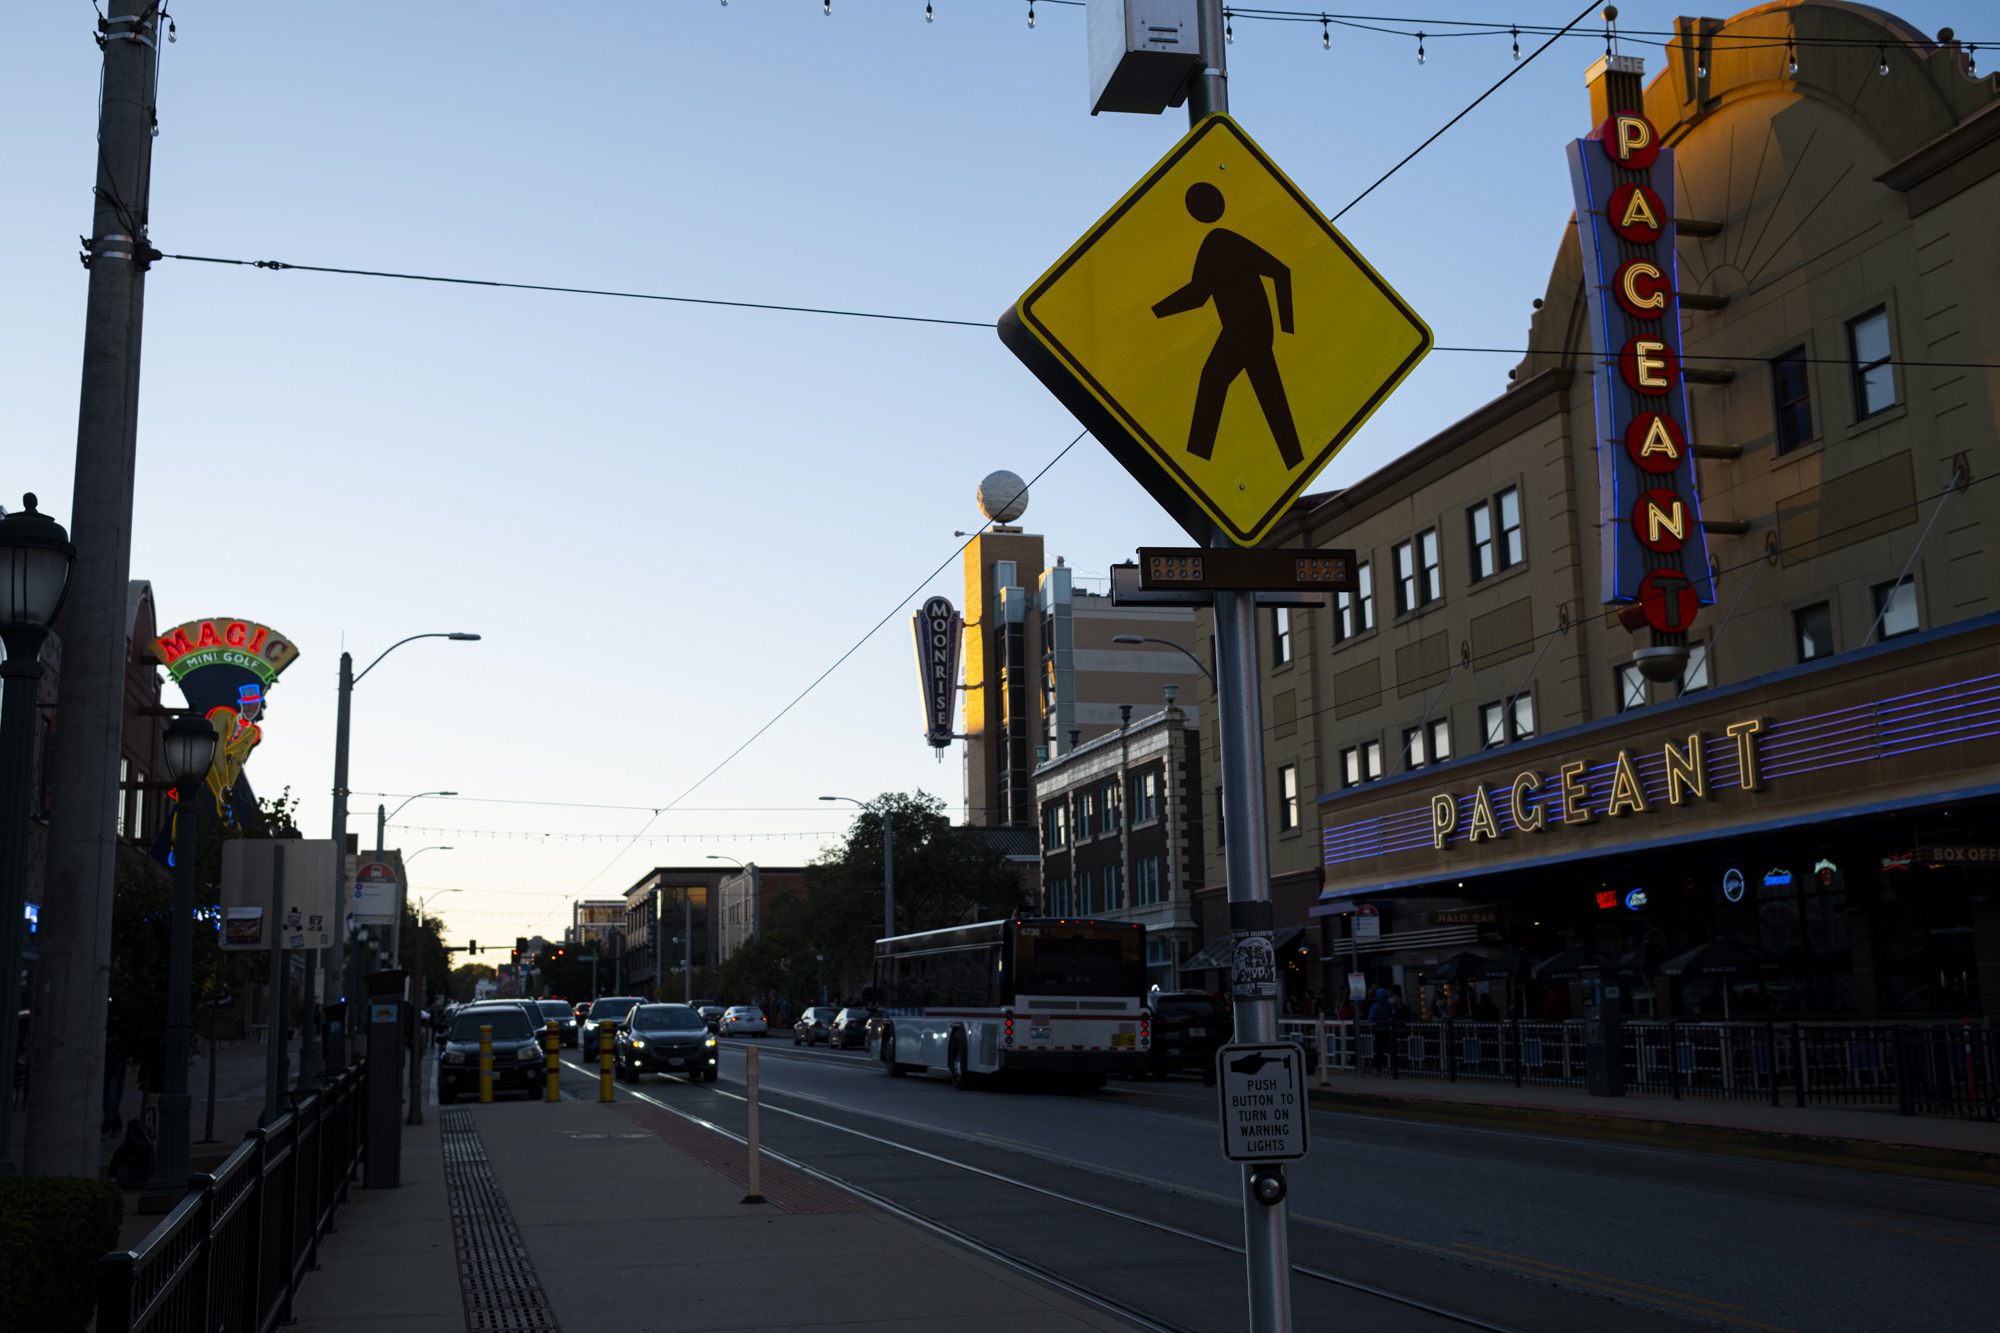
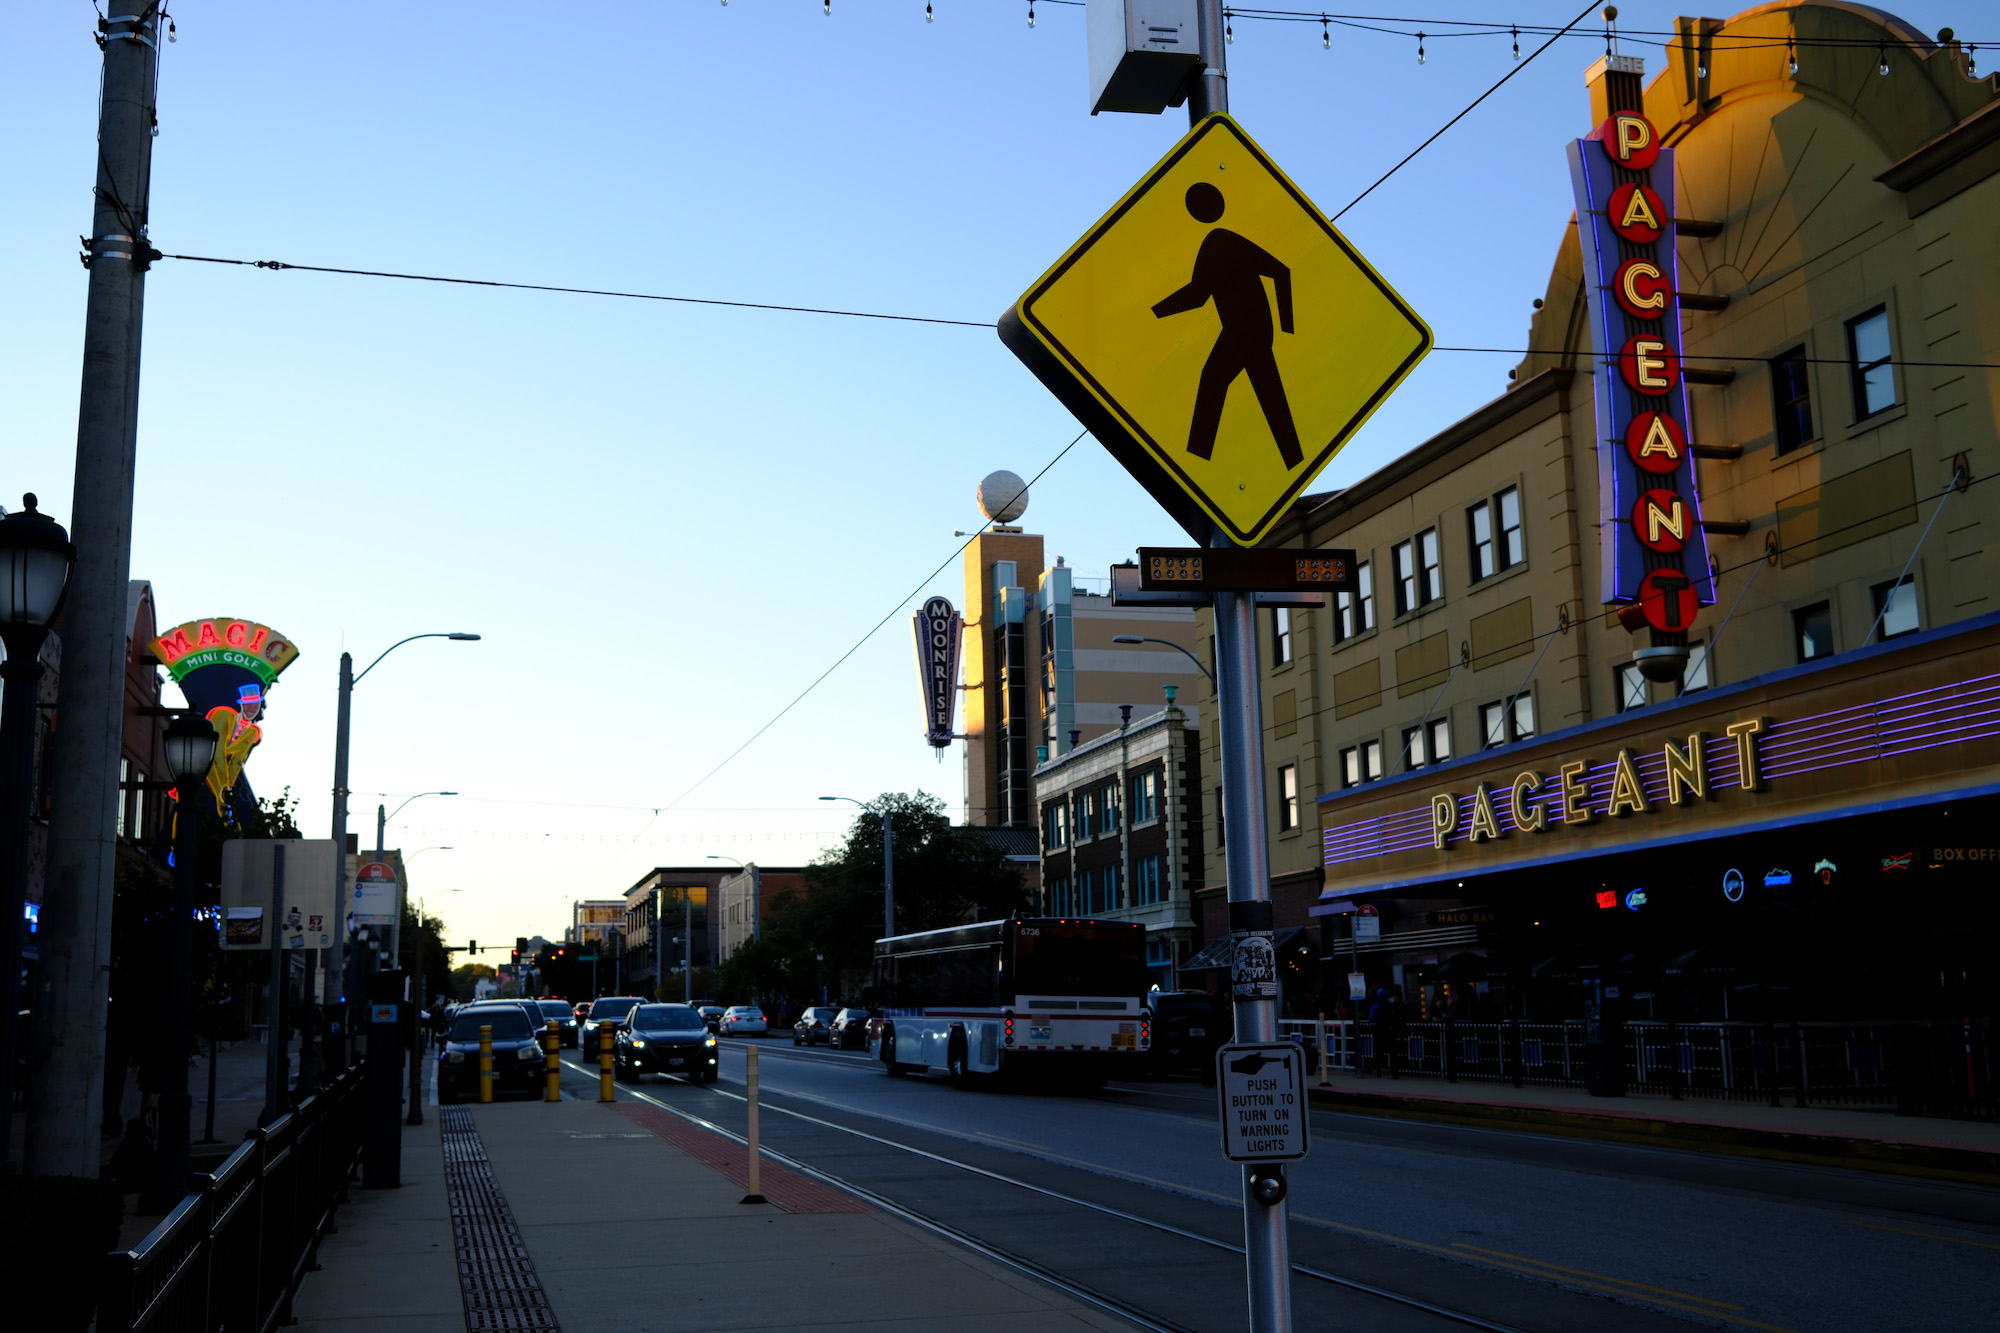
add more pics

diff --git a/src/styles/global.css b/src/styles/global.css
@@ -101,6 +101,7 @@
   --river-height: 32px;
   --pane-header-height: 45px;
   --aside-width: 290px;
+  --list-pane-width: 480px;
   --detail-gap: 2.5rem;
   --measure-article: calc(var(--measure-reading) + var(--detail-gap) + var(--aside-width));
   --measure-prose: 70ch;
@@ -944,11 +945,18 @@ body:has(.map-split) main > .wrap,
 
 @media screen and (min-width: 1000px) {
   .map-split .results {
-    grid-template-columns: 480px 1fr;
+    grid-template-columns: var(--list-pane-width) 1fr;
   }
 
   .map-split.detail-split .results {
     grid-template-columns: 50% 1fr;
+  }
+}
+
+@media screen and (min-width: 1500px) {
+  .map-split .results {
+    --list-pane-width: 530px;
+    --list-photo-width: 153px;
   }
 }
 

diff --git a/src/content/neighborhoods/delmar-loop.md b/src/content/neighborhoods/delmar-loop.md
@@ -5,6 +5,7 @@ photo: ../images/neighborhoods/delmar-loop/delmar10.jpg
 url: https://visittheloop.com/
 wikipedia: https://en.wikipedia.org/wiki/Delmar_Loop
 description: A walkable strip of music venues and restaurants
+featured: 4
 ---
 
 The Delmar Loop, often referred to as just The Loop, is a commercial strip that straddles the western edge of St. Louis city and the east end of University City. It was named "One of the 10 Great Streets in America" by [The American Planning Association](https://www.planning.org/greatplaces/streets/2007/delmarloop.htm) in 2007 due the "sustained efforts of local business, government, and the community to achieve successful physical and economic revitalization."
@@ -19,6 +20,8 @@ The Delmar Loop is right along the Delmar Divide, and is still recovering from s
 
 ![](../images/neighborhoods/delmar-loop/delmar1.jpg)
 
+![](../images/neighborhoods/delmar-loop/delmar13.jpg)
+
 ![](../images/neighborhoods/delmar-loop/delmar2.jpg)
 
 ![](../images/neighborhoods/delmar-loop/delmar3.jpg)
@@ -29,7 +32,7 @@ The Delmar Loop is right along the Delmar Divide, and is still recovering from s
 
 ![](../images/neighborhoods/delmar-loop/delmar6.jpg)
 
-![](../images/neighborhoods/delmar-loop/delmar13.jpg)
+![](../images/neighborhoods/delmar-loop/delmar11.jpg)
 
 ![](../images/neighborhoods/delmar-loop/delmar7.jpg)
 
@@ -37,7 +40,7 @@ The Delmar Loop is right along the Delmar Divide, and is still recovering from s
 
 ![](../images/neighborhoods/delmar-loop/delmar9.jpg)
 
-![](../images/neighborhoods/delmar-loop/delmar11.jpg)
+![](../images/neighborhoods/delmar-loop/delmar15.jpg)
 
 ![](../images/neighborhoods/delmar-loop/delmar12.jpg)
 

diff --git a/src/content/neighborhoods/dogtown.md b/src/content/neighborhoods/dogtown.md
@@ -3,7 +3,6 @@ title: Dogtown
 created: 2026-06-28
 url: https://www.dogtownunited.org
 description: The historic Irish neighborhood in St. Louis
-featured: 6
 ---
 
 Dogtown is an unofficial neighborhood made up of four city neighborhoods: Cheltenham, Clayton-Tamm, Franz Park, and Hi-Pointe, and also consists of part of one additional area called Ellendale. (I didn't feel like trying to figure out exactly where the bounds of Ellendale exist for Dogtown, so I just left it off the map boundary.) Dogtown sits just south of Forest Park and north of Manchester Rd. It is historically the Irish neighborhood in St. Louis, and hosts a St. Patrick's Day parade.

diff --git a/src/content/neighborhoods/cherokee-street.md b/src/content/neighborhoods/cherokee-street.md
@@ -5,6 +5,7 @@ created: 2026-10-15
 url: https://cherokeestreet.com/
 wikipedia: https://en.wikipedia.org/wiki/Cherokee_Street_(St._Louis)
 description: A vibrant, eclectic commercial and cultural district
+featured: 3
 ---
 
 Cherokee St. is an arts district and commercial center in St. Louis. Along the western side of the street are several restaurants, panaderias, and Mexican groceries along Cherokee. Although St. Louis does not have the most significant Hispanic presence compared to other American cities, I'm glad there's a main area to go to get good Mexican food and pastries. The Cinco de Mayo festival in St. Louis also happens along Cherokee.

diff --git a/src/content/neighborhoods/the-hill.md b/src/content/neighborhoods/the-hill.md
@@ -3,7 +3,6 @@ title: The Hill
 created: 2026-06-28
 url: https://www.hillstl.org
 description: Little Italy in the heart of St. Louis
-featured: 3
 ---
 
 The Hill is the Italian-American neighborhood in St. Louis. It has been called [America's Last Little Italy](https://www.youtube.com/watch?v=jvWa4euR-AA). The neighborhood is fiercely proud of its Italian heritage, with Italian flag banners posted all throughout the neighborhood, and fire hydrants and crosswalks painted in the Italian colors.

diff --git a/src/content/neighborhoods/soulard.md b/src/content/neighborhoods/soulard.md
@@ -3,7 +3,6 @@ title: Soulard
 created: 2026-07-05
 updated: 2026-10-12
 description: Bars, nightlife, and music in a historic neighborhood
-featured: 4
 ---
 
 Soulard is known as the bar and nightlife part of town. It's the oldest residential neighborhood in St. Louis, and has kept much of its original character in tact. There are many small, winding streets with bars, restaurants, clubs, cafes, and live music dotted throughout.

diff --git a/src/content/neighborhoods/central-west-end.md b/src/content/neighborhoods/central-west-end.md
@@ -3,7 +3,6 @@ title: Central West End
 created: 2026-06-28
 url: https://cwescene.com
 description: An upscale urban neighborhood near Forest Park
-featured: 5
 ---
 
 Central West End is an upscale urban neighborhood in St. Louis city. It sits right along Forest Park and has a walkable downtown vibe. It's the biggest and most populated neighborhood in the city, and is often recommended for new transplants.

diff --git a/src/content/topics/walkable-st-louis.md b/src/content/topics/walkable-st-louis.md
@@ -128,6 +128,8 @@ The Grove is most famous for being the city's LGBTQ+ nightlife district. On one 
 
 ## The Delmar Loop
 
+![](../images/neighborhoods/delmar-loop/delmar10.jpg)
+
 <figure class="street-map-figure">
   <div class="street-map" data-street-map="delmar-loop"></div>
 </figure>

diff --git a/src/content/changelog/2026-10-19.md b/src/content/changelog/2026-10-19.md
@@ -1,0 +1,5 @@
+---
+date: 2026-10-19
+---
+
+Added pictures to the [[delmar-loop|Delmar Loop]] entry.
